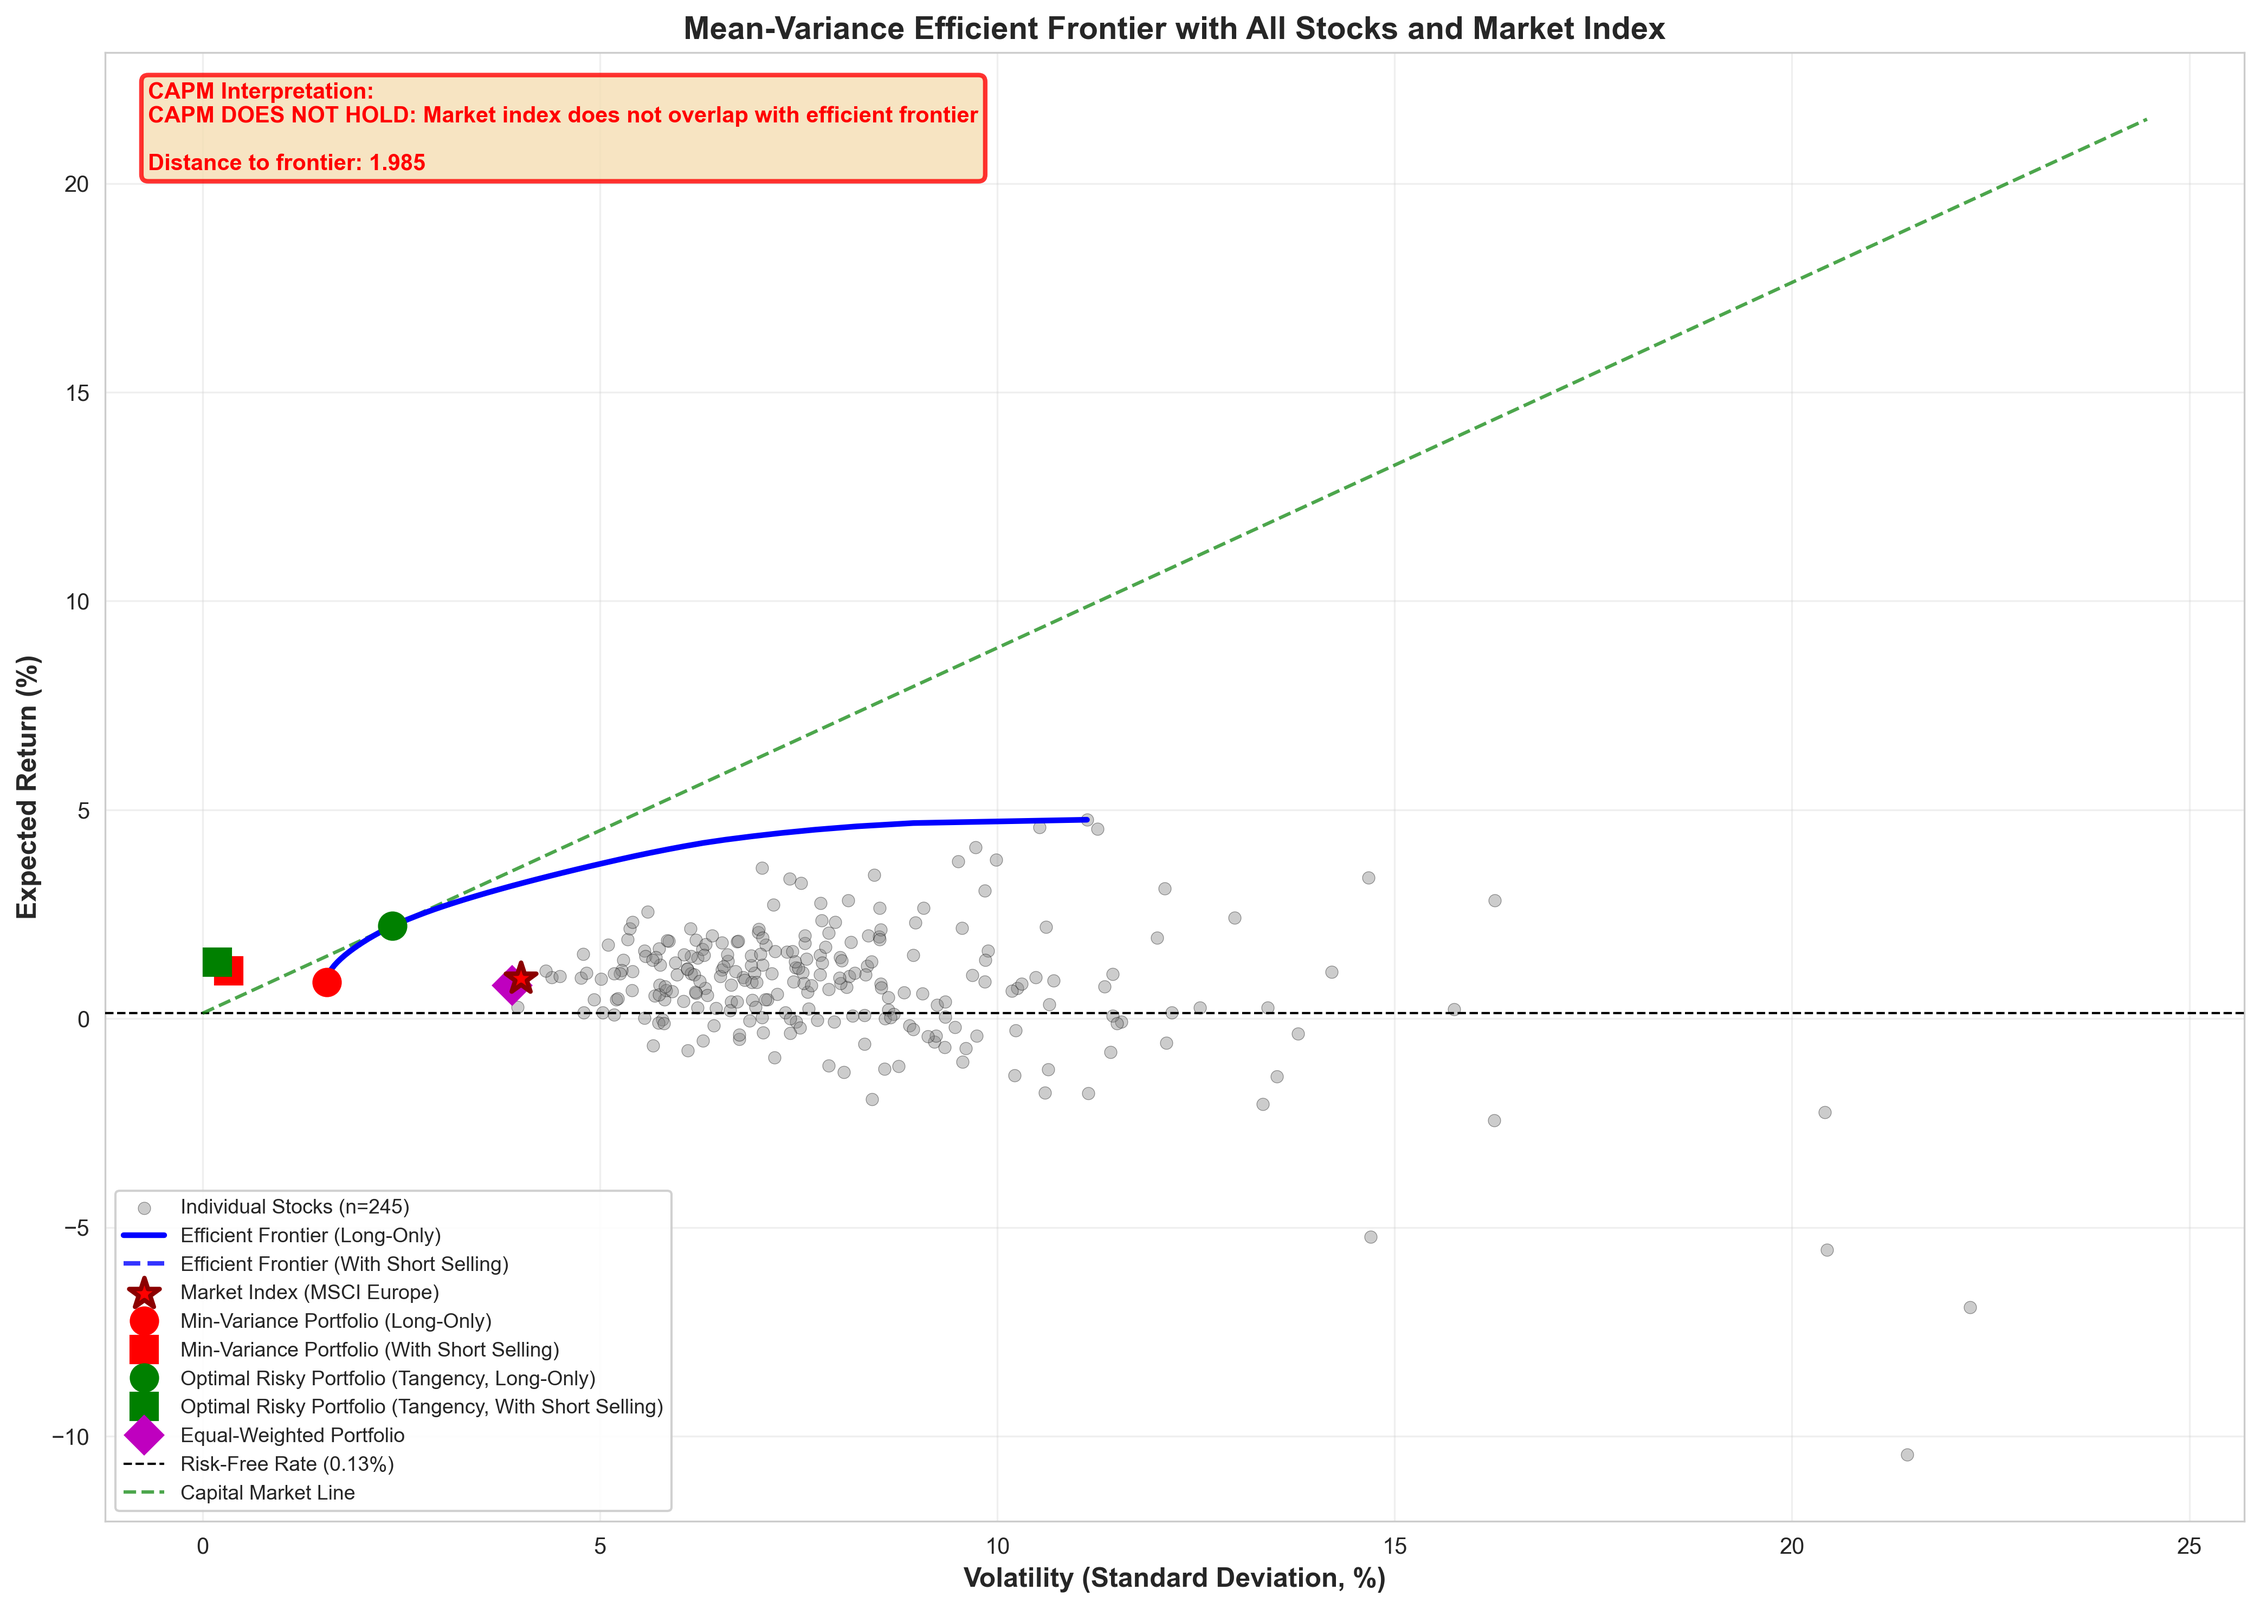
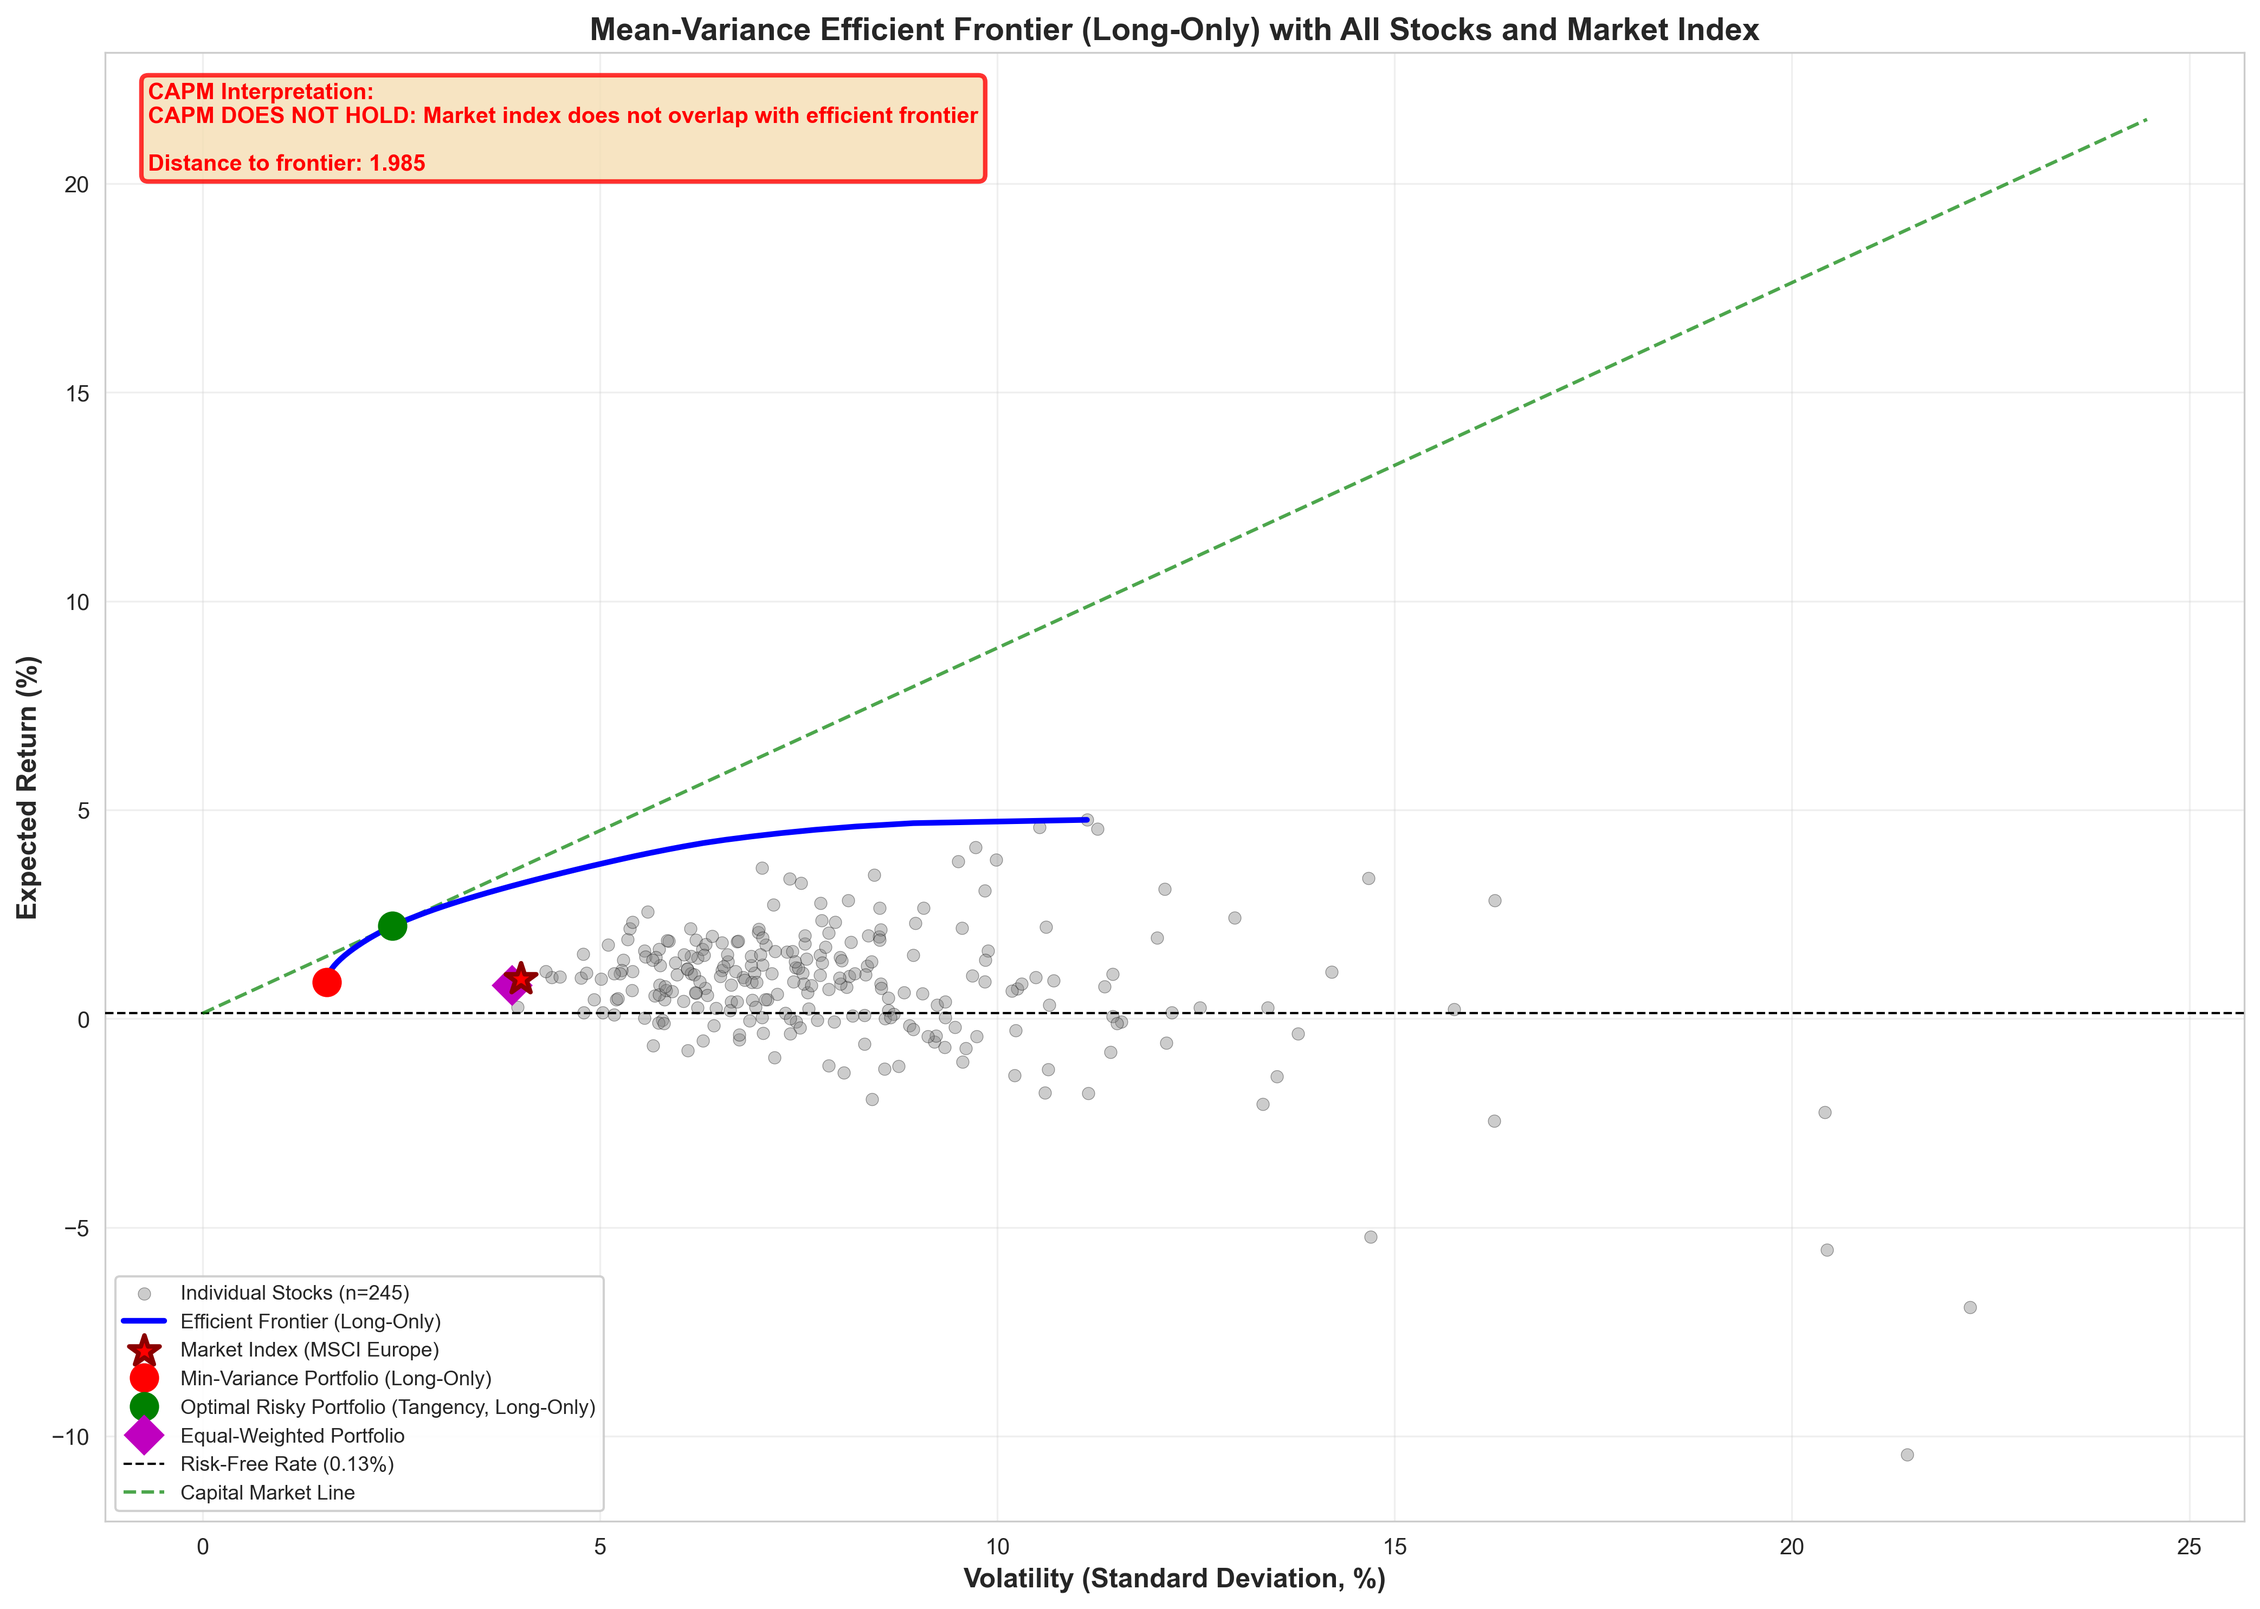
Remove unconstrained portfolios from main efficient frontier plot
- Remove unconstrained frontier line from main plot
- Remove unconstrained minimum-variance and tangency portfolio markers
- Update plot to show only constrained (long-only) portfolios
- Update docstring and title to reflect long-only only
- Keep function signature for backward compatibility (unconstrained parameters ignored)

The main efficient frontier plot now shows only economically achievable portfolios, consistent with the constrained-only results folder.

Changed region(s): [[0.0312, 0.7434, 0.2806, 0.8983], [0.2494, 0.0, 0.7794, 0.031], [0.0935, 0.5886, 0.1247, 0.6195]]

diff --git a/analysis/extensions/portfolio_optimization.py b/analysis/extensions/portfolio_optimization.py
@@ -673,32 +673,35 @@ def plot_efficient_frontier(
     output_path: str
 ) -> None:
     """
-    Plot efficient frontier with all individual stocks and market index.
+    Plot efficient frontier with all individual stocks and market index (long-only only).
     
-    This graph shows:
+    This graph shows only constrained (long-only) portfolios, as unconstrained portfolios
+    achieve economically unachievable results. The plot includes:
     - X-axis: Volatility (standard deviation)
     - Y-axis: Expected return
     - All individual stocks as scatter points
     - Constrained efficient frontier (long-only, solid line)
-    - Unconstrained efficient frontier (with short selling, dashed line)
     - Market index (MSCI Europe) point
+    - Constrained minimum-variance and tangency portfolios
     - Interpretation: If efficient frontier overlaps well with market index, CAPM holds.
                      If not, CAPM does not hold (opposite).
+    
+    Note: Unconstrained parameters are kept for backward compatibility but are ignored.
     
     Parameters
     ----------
     frontier_df_constrained : pd.DataFrame
         Constrained efficient frontier data (long-only) with 'volatility' and 'return' columns
     frontier_df_unconstrained : pd.DataFrame
-        Unconstrained efficient frontier data (with short selling) with 'volatility' and 'return' columns
+        Unconstrained efficient frontier data (ignored, kept for backward compatibility)
     min_var_port_constrained : tuple
         (return, volatility) for constrained minimum-variance portfolio (long-only)
     min_var_port_unconstrained : tuple
-        (return, volatility) for unconstrained minimum-variance portfolio (with short selling)
+        Unconstrained minimum-variance portfolio (ignored, kept for backward compatibility)
     tangency_port_constrained : tuple
         (return, volatility) for constrained tangency portfolio (long-only)
     tangency_port_unconstrained : tuple
-        (return, volatility) for unconstrained tangency portfolio (with short selling)
+        Unconstrained tangency portfolio (ignored, kept for backward compatibility)
     equal_weighted_port : tuple
         (return, volatility) for equal-weighted portfolio
     expected_returns : pd.Series
@@ -710,7 +713,7 @@ def plot_efficient_frontier(
     market_index_vol : float
         Volatility of market index (MSCI Europe)
     risk_free_rate : float
-        Risk-free rate
+        Risk-free rate (German 3-month Bund, EUR, for all countries)
     output_path : str
         Path to save plot
     """
@@ -722,7 +725,6 @@ def plot_efficient_frontier(
     logger.info(f"  Unit check - Individual stock volatilities: min={individual_volatilities.min():.2f}%, max={individual_volatilities.max():.2f}%")
     logger.info(f"  Unit check - Expected returns: min={expected_returns.min():.2f}%, max={expected_returns.max():.2f}%")
     logger.info(f"  Unit check - Constrained frontier volatility: min={frontier_df_constrained['volatility'].min():.2f}%, max={frontier_df_constrained['volatility'].max():.2f}%")
-    logger.info(f"  Unit check - Unconstrained frontier volatility: min={frontier_df_unconstrained['volatility'].min():.2f}%, max={frontier_df_unconstrained['volatility'].max():.2f}%")
     logger.info(f"  Unit check - Market index: return={market_index_return:.2f}%, vol={market_index_vol:.2f}%")
     
     fig, ax = plt.subplots(figsize=(14, 10))
@@ -736,15 +738,6 @@ def plot_efficient_frontier(
     ax.plot(frontier_df_constrained['volatility'], frontier_df_constrained['return'], 
             'b-', linewidth=2.5, label='Efficient Frontier (Long-Only)', zorder=5)
     
-    # Plot unconstrained efficient frontier (with short selling, dashed line)
-    # Only plot if we have valid points (may be empty if optimizations failed)
-    if len(frontier_df_unconstrained) > 0:
-        ax.plot(frontier_df_unconstrained['volatility'], frontier_df_unconstrained['return'], 
-                'b--', linewidth=2.0, alpha=0.8, label='Efficient Frontier (With Short Selling)', zorder=5)
-    else:
-        # If no frontier points, just show a note
-        logger.warning("  Unconstrained efficient frontier has no points - may be due to gross exposure constraint")
-    
     # Plot market index (MSCI Europe)
     ax.scatter(market_index_vol, market_index_return, 
               s=200, marker='*', color='red', edgecolors='darkred', linewidths=2,
@@ -754,17 +747,9 @@ def plot_efficient_frontier(
     ax.plot(min_var_port_constrained[1], min_var_port_constrained[0], 
             'ro', markersize=12, label='Min-Variance Portfolio (Long-Only)', zorder=5)
     
-    # Plot unconstrained minimum-variance portfolio (with short selling, red square)
-    ax.plot(min_var_port_unconstrained[1], min_var_port_unconstrained[0], 
-            'rs', markersize=12, label='Min-Variance Portfolio (With Short Selling)', zorder=5)
-    
     # Plot constrained tangency portfolio (long-only, green circle)
     ax.plot(tangency_port_constrained[1], tangency_port_constrained[0], 
             'go', markersize=12, label='Optimal Risky Portfolio (Tangency, Long-Only)', zorder=5)
-    
-    # Plot unconstrained tangency portfolio (with short selling, green square)
-    ax.plot(tangency_port_unconstrained[1], tangency_port_unconstrained[0], 
-            'gs', markersize=12, label='Optimal Risky Portfolio (Tangency, With Short Selling)', zorder=5)
     
     # Plot equal-weighted portfolio (purple diamond)
     ax.plot(equal_weighted_port[1], equal_weighted_port[0], 
@@ -779,7 +764,6 @@ def plot_efficient_frontier(
         cml_slope = (tangency_port_constrained[0] - risk_free_rate) / tangency_port_constrained[1]
         max_vol = max(
             frontier_df_constrained['volatility'].max() if len(frontier_df_constrained) > 0 else 0,
-            frontier_df_unconstrained['volatility'].max() if len(frontier_df_unconstrained) > 0 else 0,
             individual_volatilities.max()
         )
         x_cml = np.linspace(0, max_vol * 1.1, 100)
@@ -821,7 +805,7 @@ def plot_efficient_frontier(
     
     ax.set_xlabel('Volatility (Standard Deviation, %)', fontsize=12, fontweight='bold')
     ax.set_ylabel('Expected Return (%)', fontsize=12, fontweight='bold')
-    ax.set_title('Mean-Variance Efficient Frontier with All Stocks and Market Index', 
+    ax.set_title('Mean-Variance Efficient Frontier (Long-Only) with All Stocks and Market Index', 
                 fontsize=14, fontweight='bold')
     ax.legend(loc='best', fontsize=9, framealpha=0.9)
     ax.grid(True, alpha=0.3)
